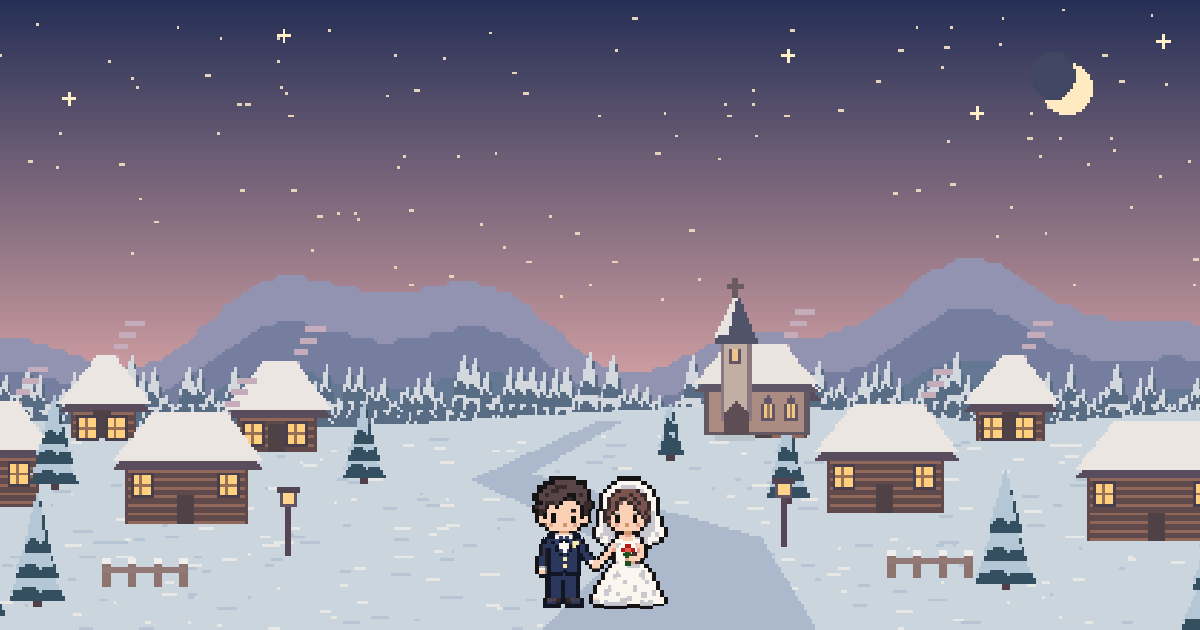
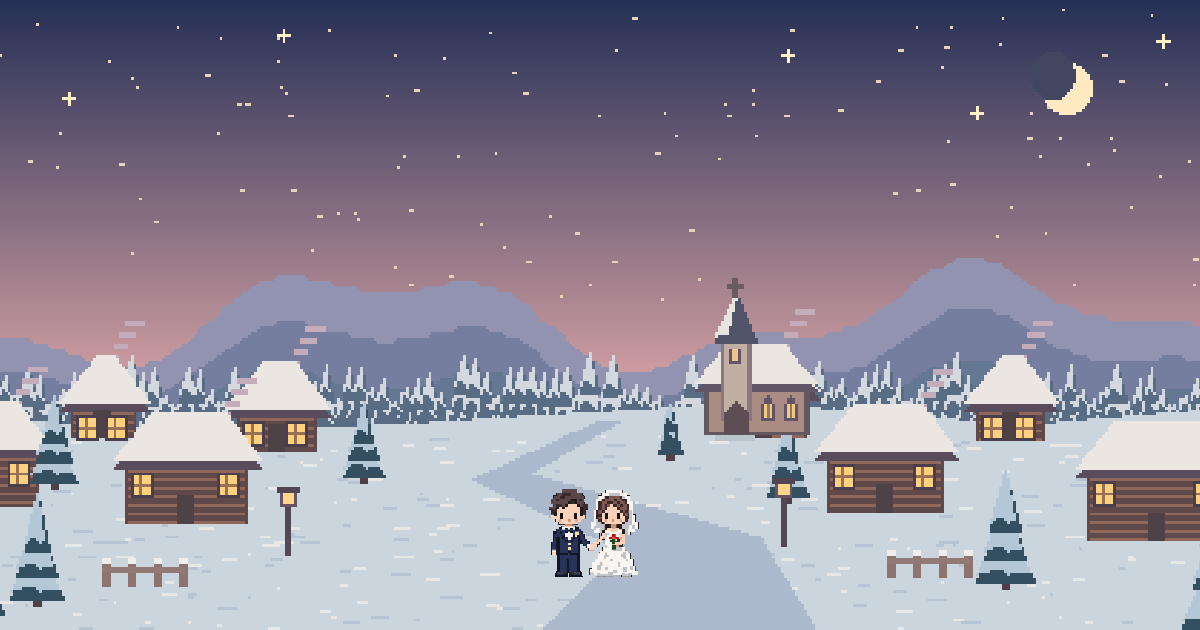
Reduce and refine the couple on the invitation share card

Changed region(s): [[0.4317, 0.754, 0.555, 0.9651]]

diff --git a/index.html b/index.html
@@ -7,7 +7,7 @@
   <meta name="description" content="눈 내리는 겨울 마을에서 두 사람의 결혼 초대장을 열어 보세요.">
   <meta property="og:title" content="Once Upon a Valley · 겨울 마을의 결혼식">
   <meta property="og:description" content="눈길 끝에서 편지 한 통이 기다리고 있어요. 두 사람의 결혼식에 초대합니다.">
-  <meta property="og:image" content="https://loop-by.github.io/once-upon-a-valley/assets/invitation-preview-bouquet.png?v=3">
+  <meta property="og:image" content="https://loop-by.github.io/once-upon-a-valley/assets/invitation-preview-bouquet.png?v=4">
   <meta property="og:image:alt" content="노을 지는 겨울 마을에서 신랑과 빨간 장미를 든 신부가 손을 맞잡은 픽셀 그림">
   <title>Once Upon a Valley · 겨울 마을의 초대장</title>
   <link rel="stylesheet" href="style.css?v=15">
